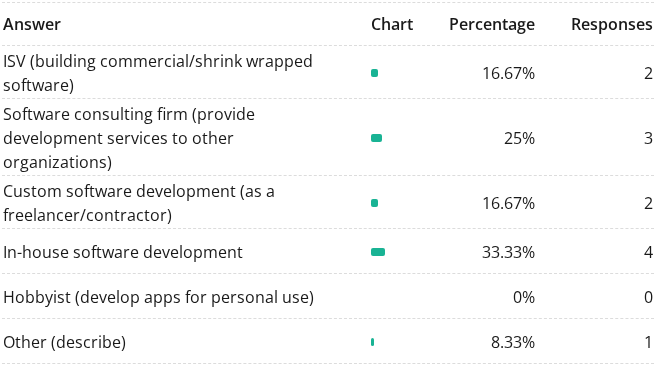
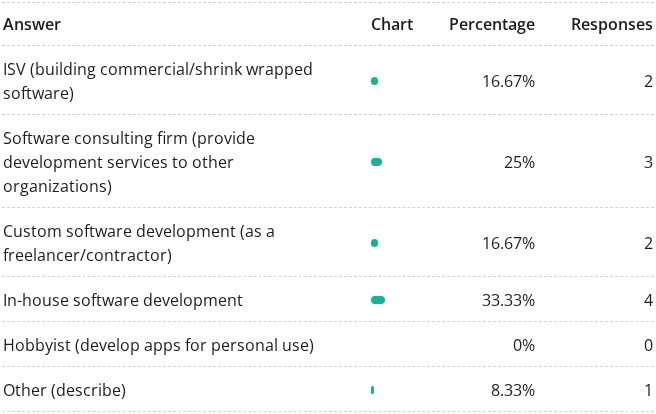
remove "not selected" item from dropdown

diff --git a/src/utils/editableSeriesListWidget.ts b/src/utils/editableSeriesListWidget.ts
@@ -6,8 +6,6 @@ import { createDropdown } from "./dropdownWidget";
 
 import "./editableSeriesListWidget.scss";
 
-const placeholder = () => localization.getString("notSelected");
-
 export interface IEditableSeriesListItemAction {
   text: string;
   onClick: () => void;
@@ -130,7 +128,7 @@ export class EditableSeriesListWidget {
 
     const legendControls = DocumentHelper.createElement("div", "sa-series-settings__legend-controls");
 
-    const dataNameOptions = () => [{ value: "", text: placeholder() }].concat(this.options.getOptions());
+    const dataNameOptions = () => this.options.getOptions();
     const dataNameDropdown = createDropdown({
       options: dataNameOptions,
       isSelected: (opt) => item.dataName === opt.value,
@@ -142,7 +140,7 @@ export class EditableSeriesListWidget {
         }
         this.setItemAt(index, patch);
       },
-      placeholder: placeholder(),
+      placeholder: localization.getString("selectDataField"),
       resetHandler: () => this.setItemAt(index, { dataName: "" }),
     });
     const legendDropdownWrapper = DocumentHelper.createElement("div", "sa-series-settings__dropdown sa-series-settings__dropdown--legend");
@@ -164,12 +162,12 @@ export class EditableSeriesListWidget {
 
     const valuesControls = DocumentHelper.createElement("div", "sa-series-settings__values-controls");
 
-    const valueNameOptions = () => [{ value: "", text: placeholder() }].concat(this.options.getOptions());
+    const valueNameOptions = () => this.options.getOptions();
     const valueNameDropdown = createDropdown({
       options: valueNameOptions,
       isSelected: (opt) => (item.valueName ?? item.dataName) === opt.value,
       handler: (value) => this.setItemAt(index, { valueName: value || "" }),
-      placeholder: placeholder(),
+      placeholder: localization.getString("selectDataField"),
       resetHandler: () => this.setItemAt(index, { valueName: "" }),
     });
     const valueDropdownWrapper = DocumentHelper.createElement("div", "sa-series-settings__dropdown sa-series-settings__dropdown--value");

diff --git a/src/utils/dateRangeWidget.ts b/src/utils/dateRangeWidget.ts
@@ -2,8 +2,9 @@ import { DocumentHelper } from "./documentHelper";
 import { localization } from "../localizationManager";
 import { DateRangeModel, DatePeriodEnum, datePeriodsFunctions, IDateRangeModelOptions } from "./dateRangeModel";
 import { IDropdownItemOption } from "./dropdownBase";
-import "./dateRangeWidget.scss";
 import { createDropdown } from "./dropdownWidget";
+
+import "./dateRangeWidget.scss";
 
 export type { DatePeriodEnum };
 export { datePeriodsFunctions };

diff --git a/src/analytics-localization/english.ts b/src/analytics-localization/english.ts
@@ -114,7 +114,7 @@ export var englishStrings = {
   axisXAlternativeSelectorTitle: "Segments:",
   axisYAlternativeSelectorTitle: "Groups:",
   secondYAxisToggleTitle: "Second Y axis",
-  notSelected: "Not selected",
+  selectDataField: "Select a data field...",
   intervalMode_default: "Default",
   intervalMode_decades: "Decades",
   intervalMode_years: "Years",